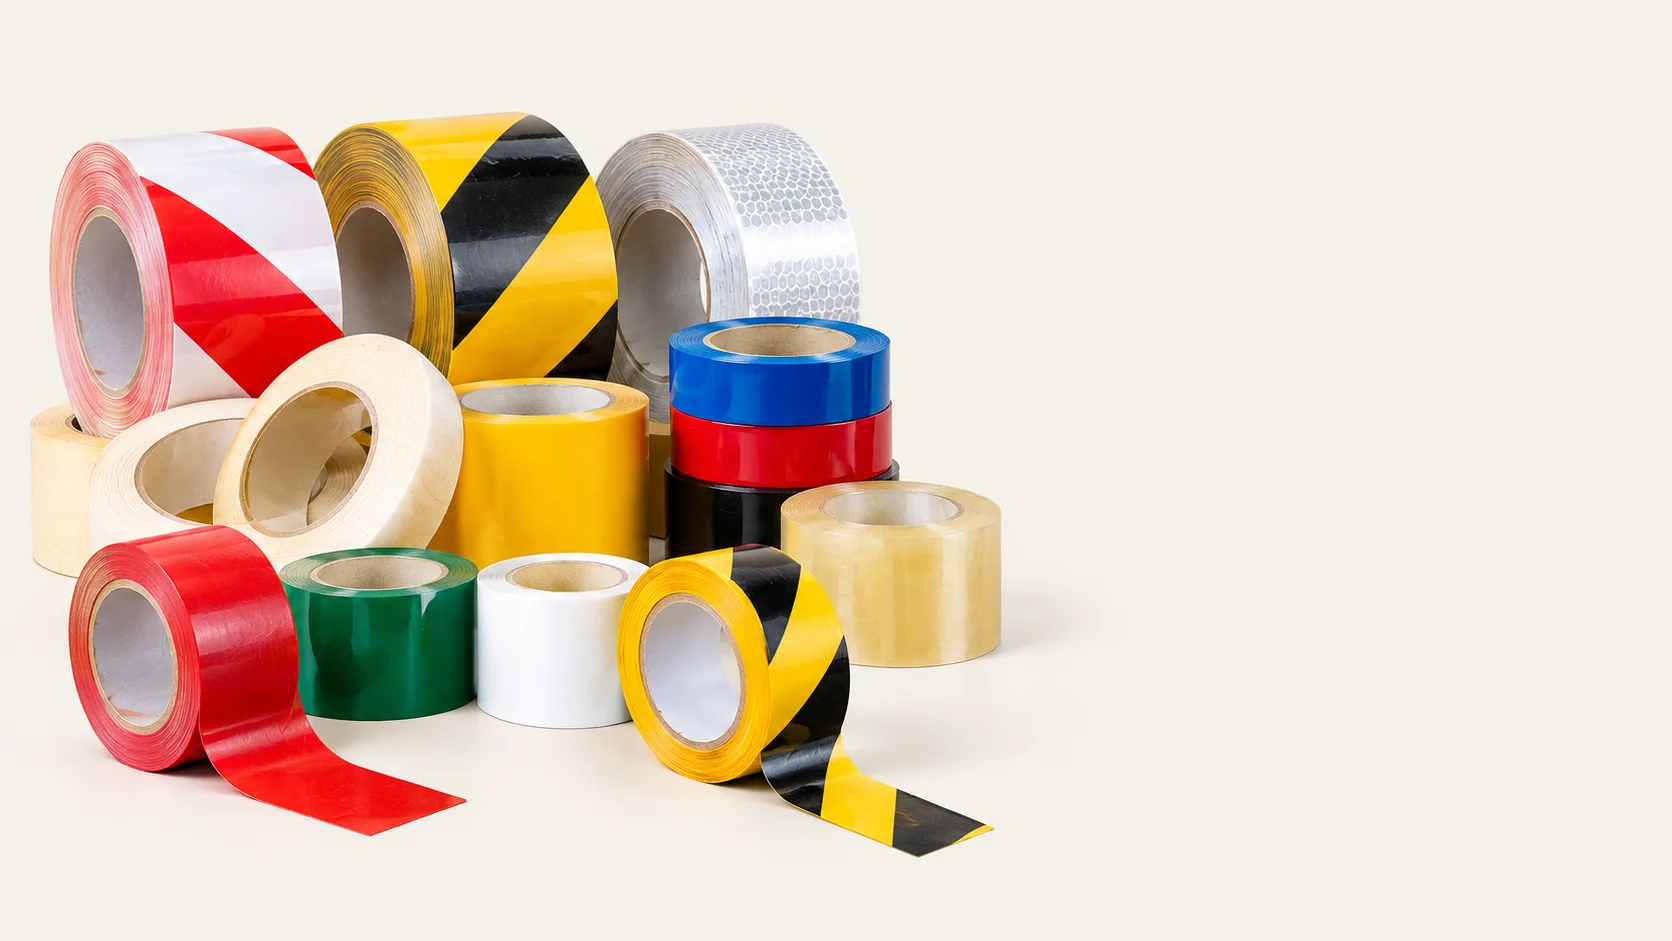
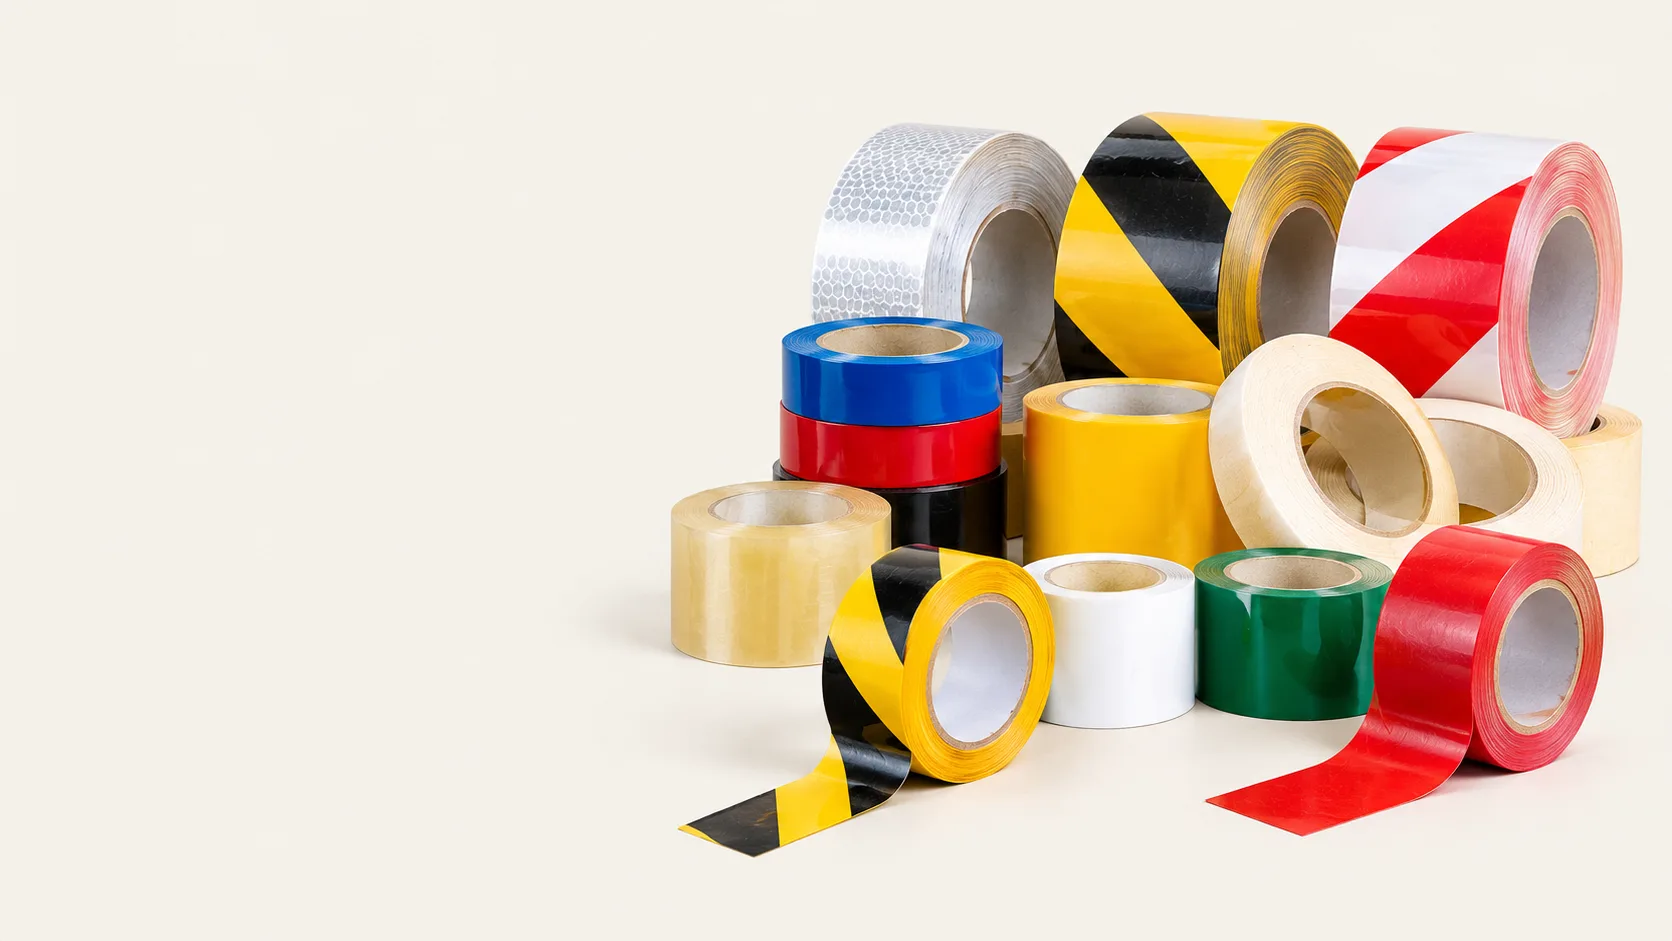
Fit category grid to five ranges; mirror hero so tapes clear the overlay

diff --git a/src/components/Categories.tsx b/src/components/Categories.tsx
@@ -43,7 +43,7 @@ export function Categories() {
           </p>
         </div>
 
-        <div className="mt-8 grid grid-cols-2 gap-4 sm:grid-cols-3 lg:grid-cols-6">
+        <div className="mt-8 grid grid-cols-2 gap-4 sm:grid-cols-3 lg:grid-cols-5">
           {categories.map((c) => {
             const Icon = ICONS[c.name] ?? TapeIcon;
             return (
